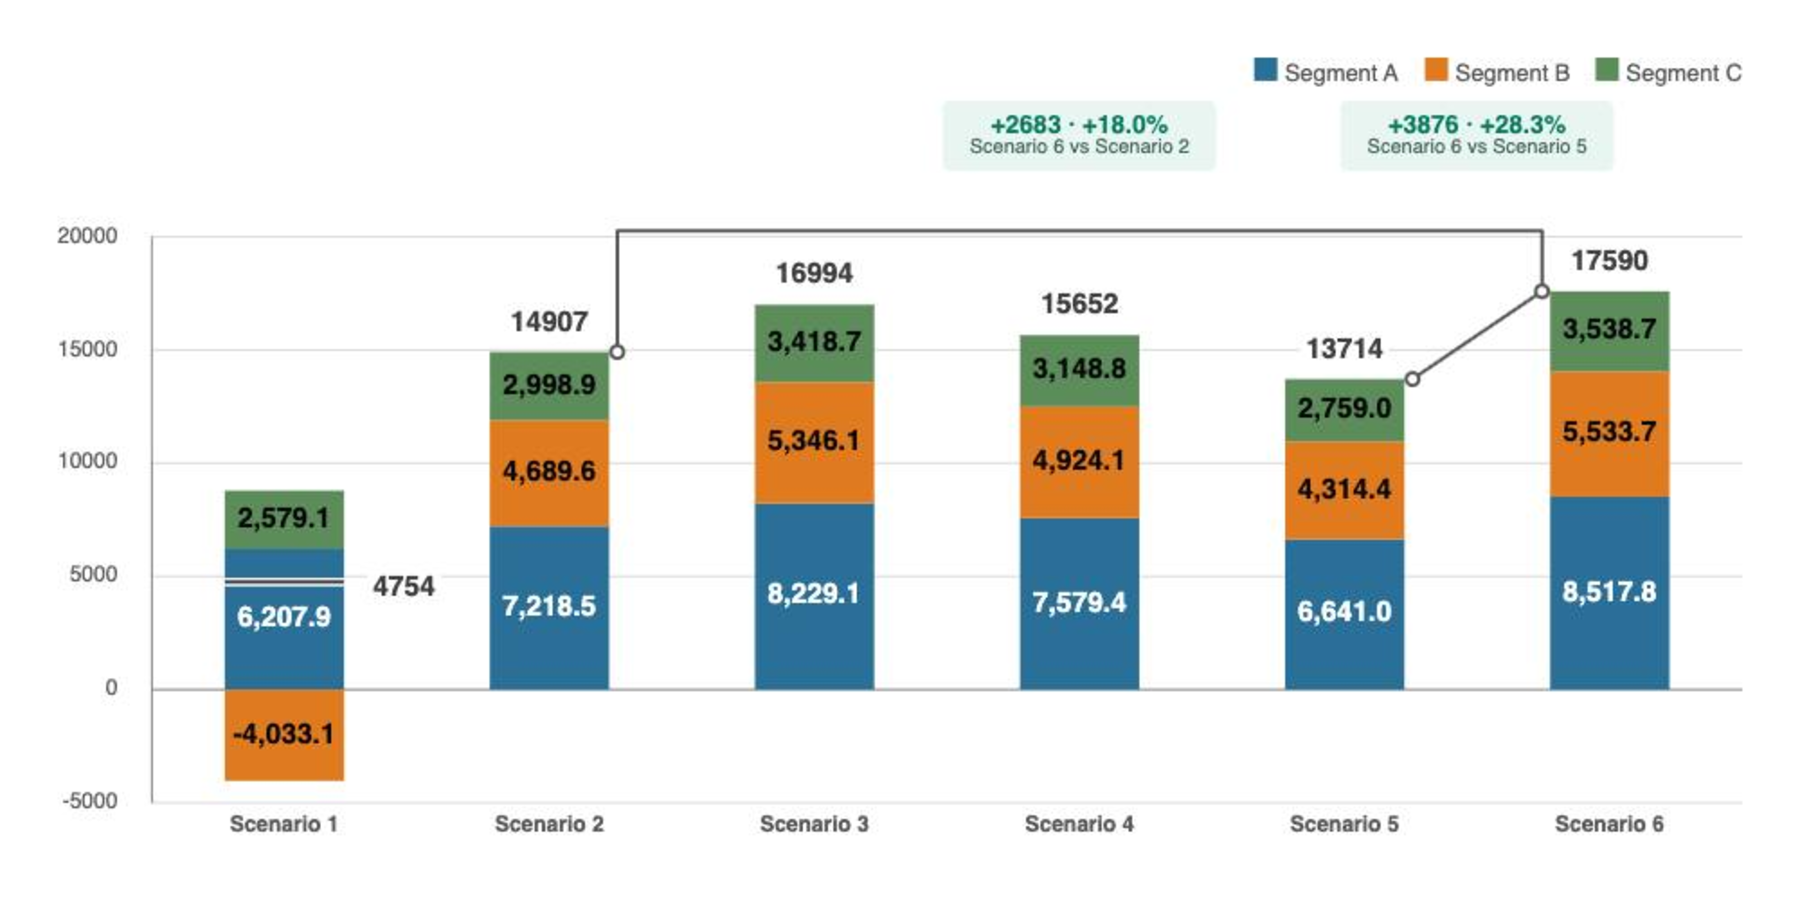
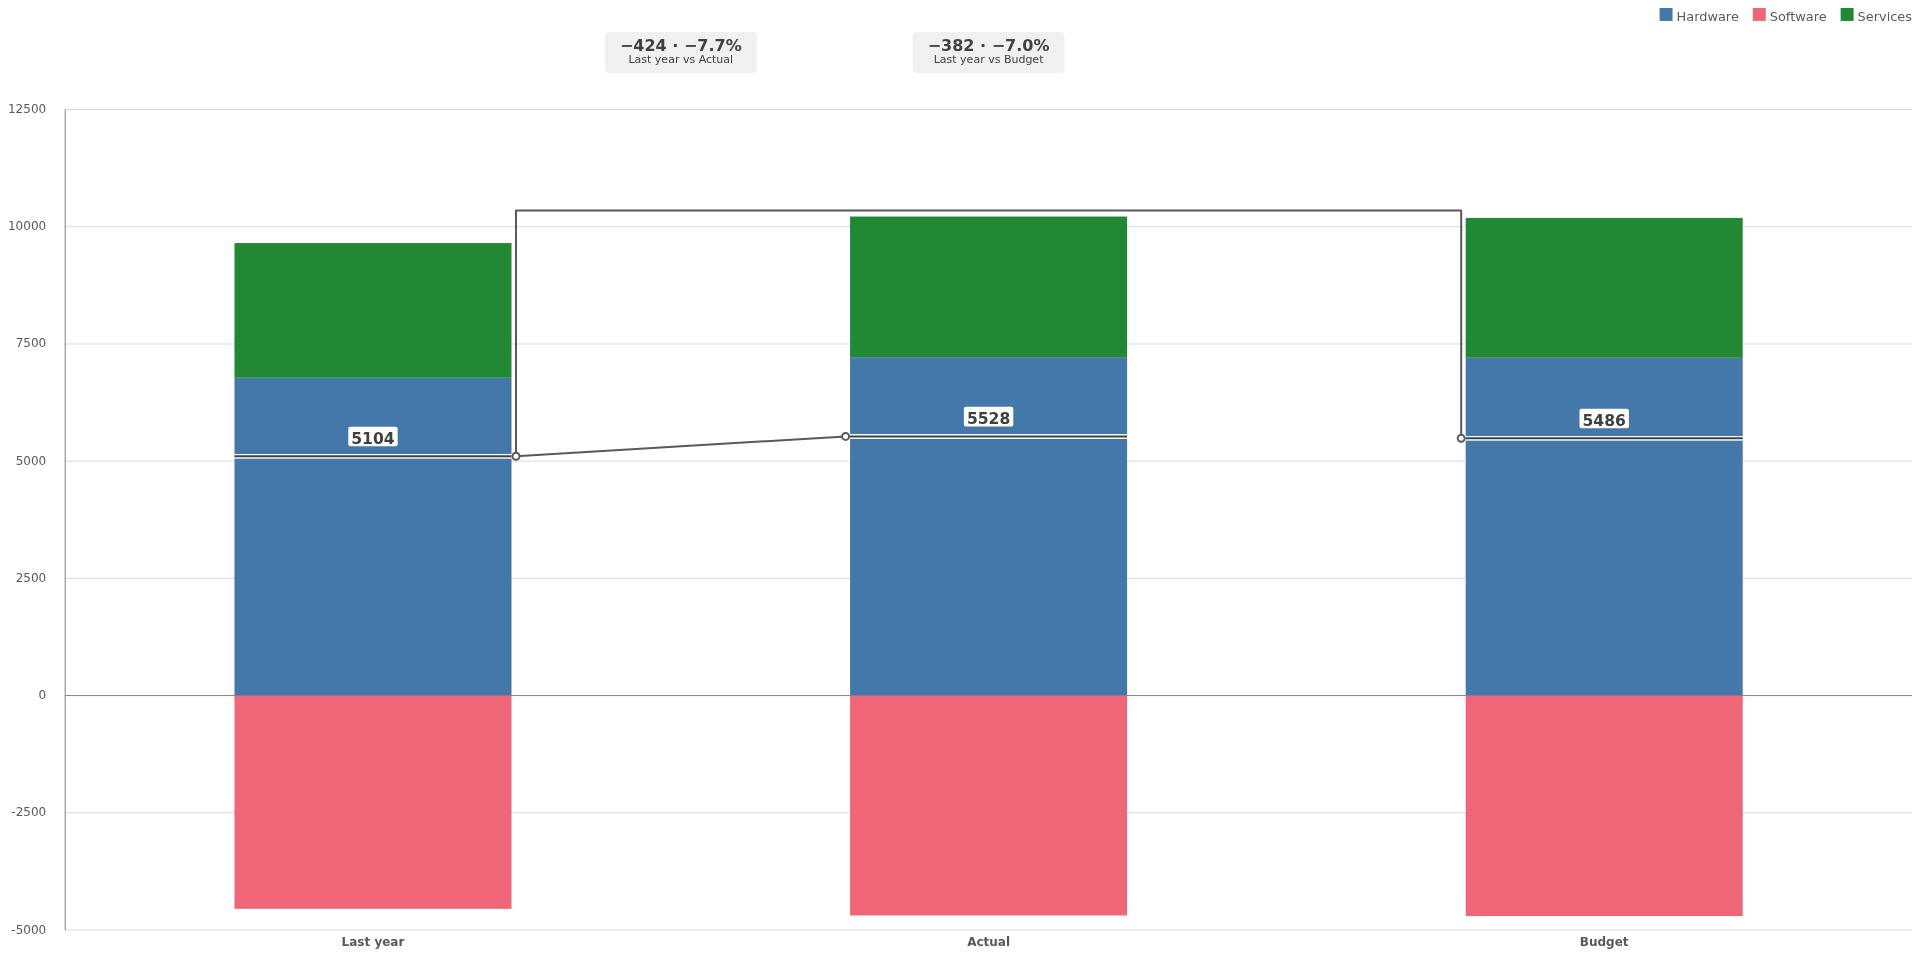
Update the listing bundle to Listing content standard v3

diff --git a/listing/products/tm-stacked-variance/description.md b/listing/products/tm-stacked-variance/description.md
@@ -1,1 +1,1 @@
-Tm Stacked Variance compares scenario totals and segment values in a stacked chart. Each column shows one scenario, and a marker shows its net total. Bridges connect totals for selected comparisons. Callouts show the signed value and percentage variance. Choose measures or dimension values for scenarios, add a segment dimension, and set comparison pairs or a preset. The chart suits plans, periods, and alternatives that share one segment definition.
+Tm Stacked Variance shows several scenarios as stacked columns inside your Qlik app. Each column carries its net total, and bridges with callouts show how much and in which direction each scenario differs from the next. Gains and losses stack on both sides of the line, so negative values stay honest. Click a segment to filter the rest of the sheet. Finance and planning teams use it to explain a gap to plan in one picture. It works best with up to eight segments per scenario.
